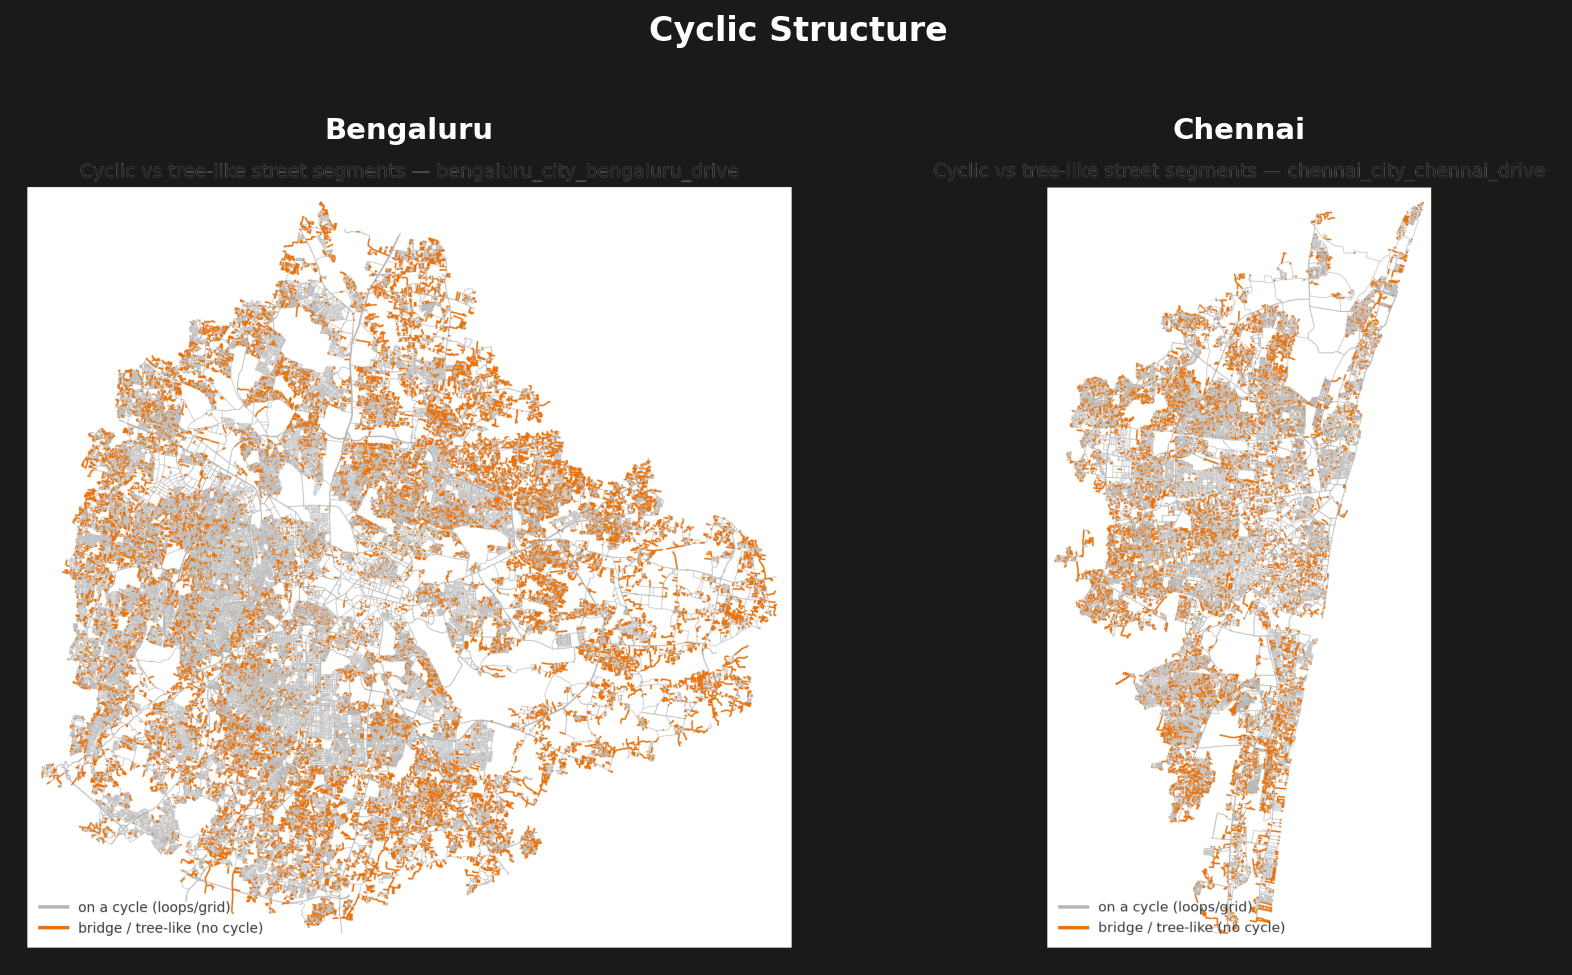
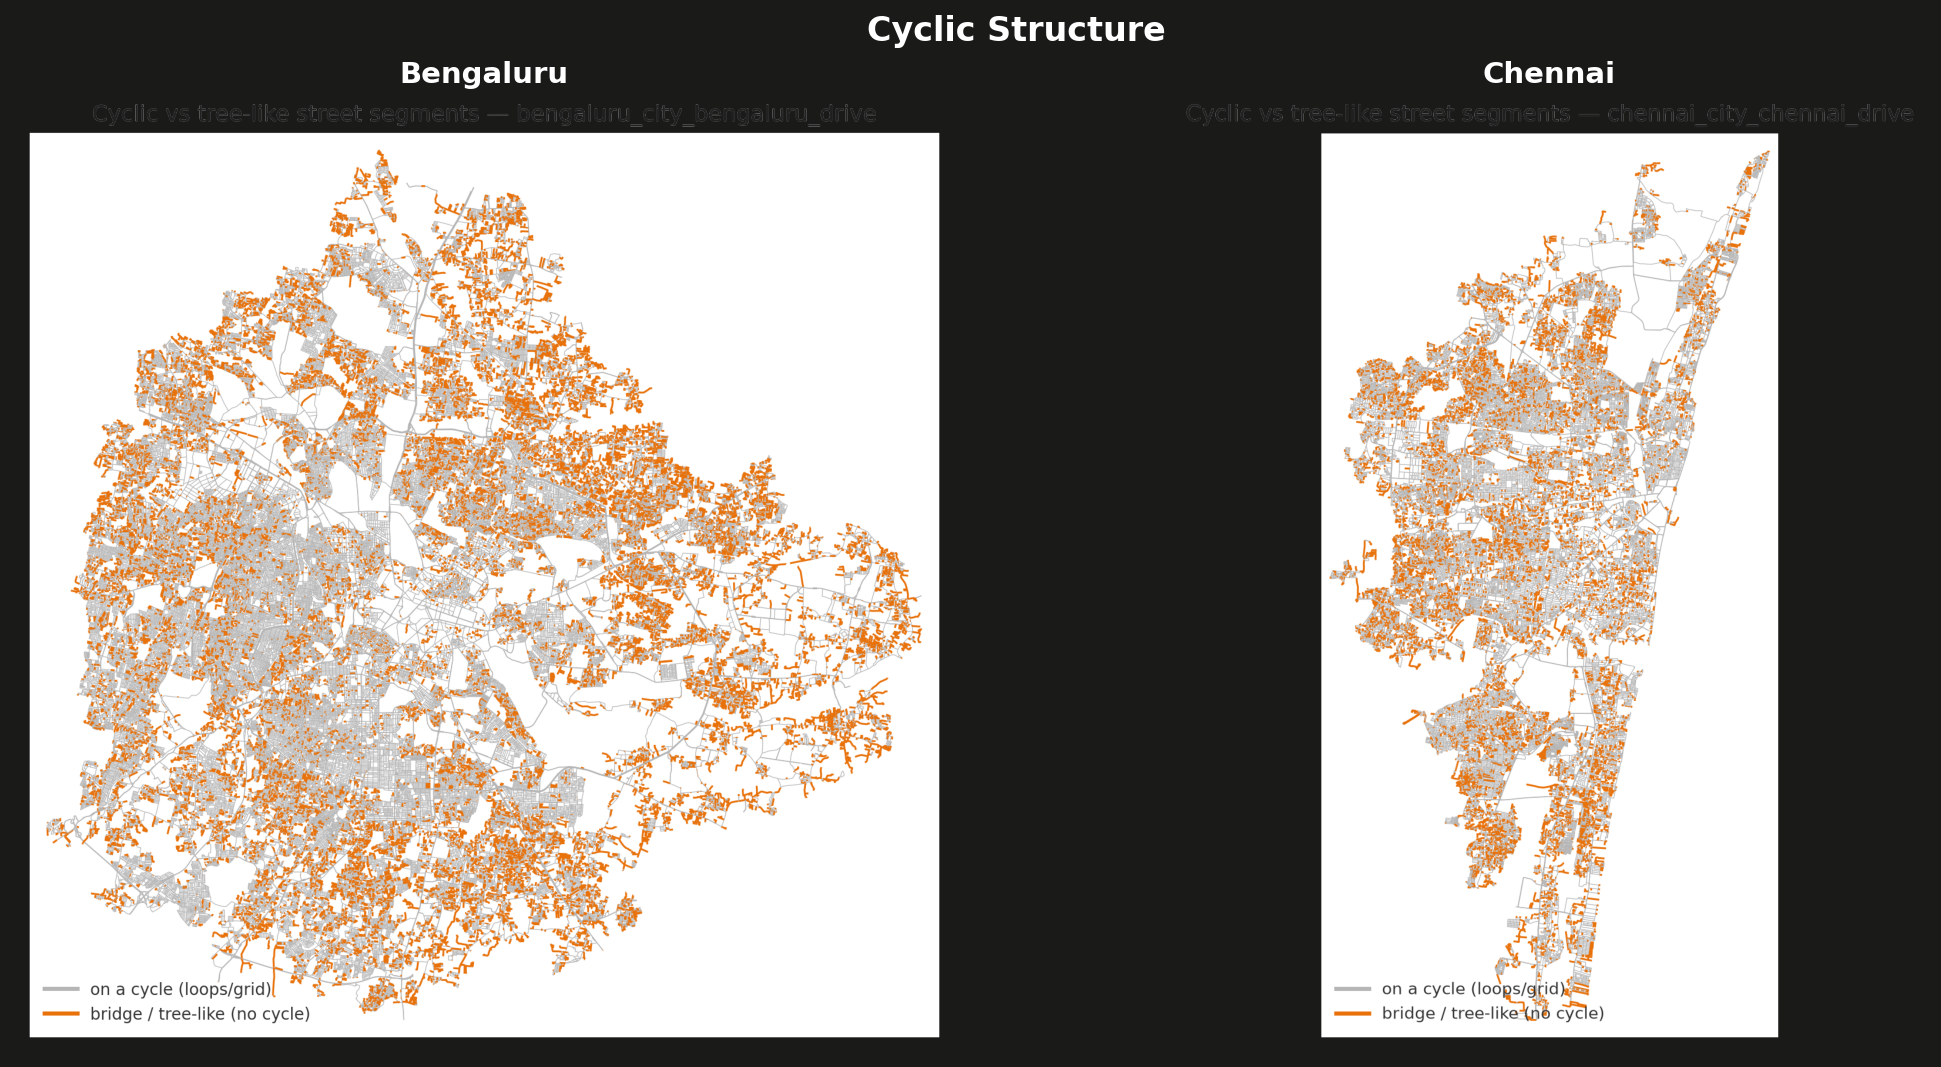
Fix suptitle gap: use constrained_layout, drop y=1.01; regenerate all comparisons

diff --git a/tools/comparison_tools/compare_figures.py b/tools/comparison_tools/compare_figures.py
@@ -93,6 +93,7 @@ def make_comparison(cities: list[dict], topic_key: str, suffix: str, out_stem: s
     # Use the tallest image to set figure height; keep each panel at ~7 in wide
     fig, axes = plt.subplots(1, n, figsize=(7 * n, 7),
                              facecolor=BG_DARK,
+                             constrained_layout=True,
                              gridspec_kw={"wspace": 0.04})
     if n == 1:
         axes = [axes]
@@ -100,9 +101,9 @@ def make_comparison(cities: list[dict], topic_key: str, suffix: str, out_stem: s
     for ax, img, label in zip(axes, images, labels):
         ax.imshow(img)
         ax.axis("off")
-        ax.set_title(label, color="white", fontsize=14, pad=6, fontweight="bold")
+        ax.set_title(label, color="white", fontsize=14, pad=4, fontweight="bold")
 
-    fig.suptitle(title, color="white", fontsize=16, y=1.01, fontweight="bold")
+    fig.suptitle(title, color="white", fontsize=16, fontweight="bold")
 
     out_path = out_dir / f"{out_stem}.png"
     fig.savefig(out_path, dpi=150, bbox_inches="tight",
@@ -157,3 +158,4 @@ def main():
 
 if __name__ == "__main__":
     main()
+
